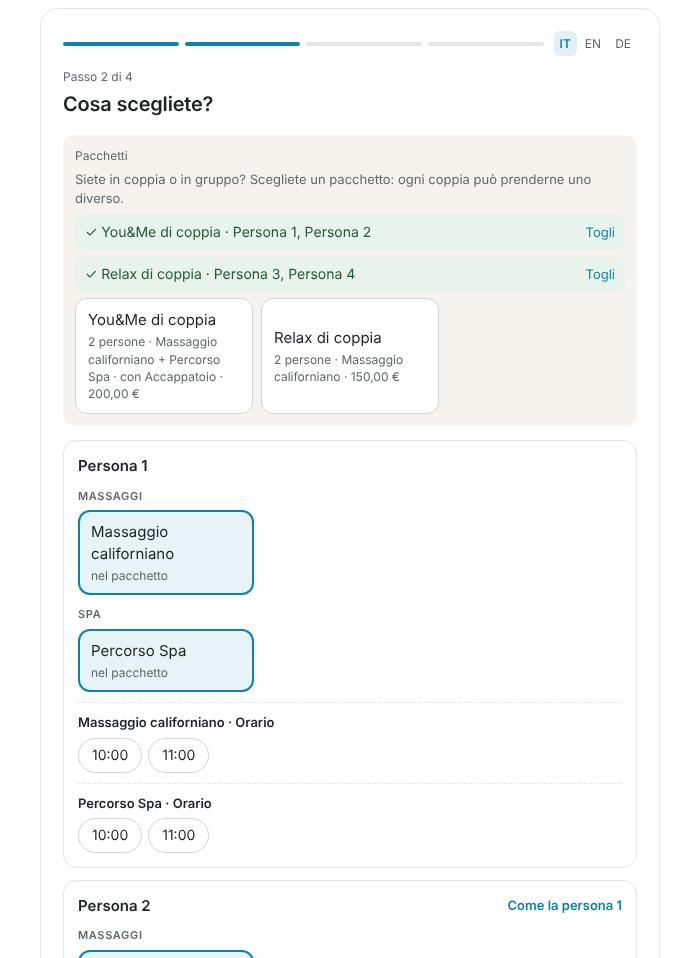
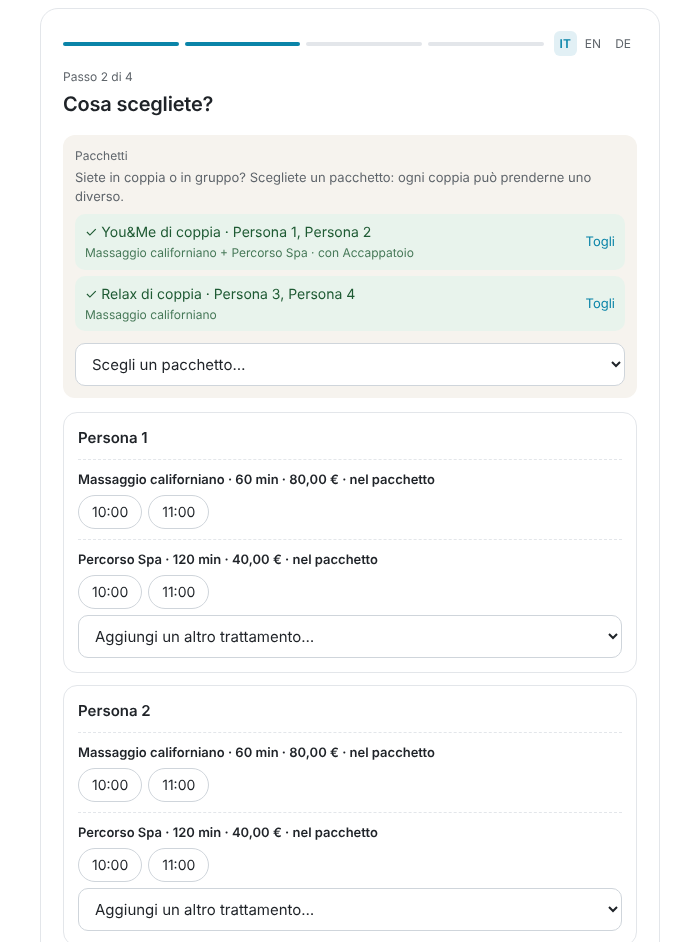
2.8.12: modulo web compatto (menu pacchetti e trattamenti), ordine di pacchetti e trattamenti su sito e banco (#54)
Claude-Session: https://claude.ai/code/session_01GttFfEWm9aErteTXHjR7ex

diff --git a/custom_components/spa_booking/frontend/spa-booking-form.js b/custom_components/spa_booking/frontend/spa-booking-form.js
@@ -45,6 +45,7 @@
       voucherOk: "Voucher valido fino al {d}: trattamenti già scelti.", voucherBad: "Voucher non valido o scaduto.",
       treatments: "Trattamenti", time: "Orario", noSlots: "Nessun orario libero in questa data.",
       loading: "Caricamento…", sameAs1: "Come la persona 1", fromVoucher: "dal voucher",
+      choosePkg: "Scegli un pacchetto…", addTreatment: "Scegli un trattamento…", addAnother: "Aggiungi un altro trattamento…",
       packages: "Pacchetti", packagesHint: "Siete in coppia o in gruppo? Scegliete un pacchetto: ogni coppia può prenderne uno diverso.",
       people2: "{n} persone", inPackage: "nel pacchetto", removePkg: "Togli", withExtras: "con {x}",
       first: "Nome", last: "Cognome", phone: "Telefono", phoneHint: "Ti confermiamo l'orario su WhatsApp.",
@@ -71,6 +72,7 @@
       pref: "For the massage you would prefer…", prefAny: "No preference", prefF: "A female therapist", prefM: "A male therapist",
       treatments: "Treatments", time: "Time", noSlots: "No free time on this date.",
       loading: "Loading…", sameAs1: "Same as guest 1", fromVoucher: "from the voucher",
+      choosePkg: "Choose a package…", addTreatment: "Choose a treatment…", addAnother: "Add another treatment…",
       packages: "Packages", packagesHint: "Coming as a couple or a group? Choose a package: each couple can take a different one.",
       people2: "{n} guests", inPackage: "in the package", removePkg: "Remove", withExtras: "with {x}",
       first: "First name", last: "Last name", phone: "Phone", phoneHint: "We confirm the time on WhatsApp.",
@@ -96,6 +98,7 @@
       pref: "Für die Massage bevorzugen Sie…", prefAny: "Egal", prefF: "Eine Masseurin", prefM: "Einen Masseur",
       treatments: "Behandlungen", time: "Uhrzeit", noSlots: "An diesem Tag ist keine Uhrzeit frei.",
       loading: "Wird geladen…", sameAs1: "Wie Person 1", fromVoucher: "aus dem Gutschein",
+      choosePkg: "Paket wählen…", addTreatment: "Behandlung wählen…", addAnother: "Weitere Behandlung hinzufügen…",
       packages: "Pakete", packagesHint: "Zu zweit oder in der Gruppe? Wählen Sie ein Paket: jedes Paar kann ein anderes nehmen.",
       people2: "{n} Personen", inPackage: "im Paket", removePkg: "Entfernen", withExtras: "mit {x}",
       first: "Vorname", last: "Nachname", phone: "Telefon", phoneHint: "Wir bestätigen die Uhrzeit per WhatsApp.",
@@ -321,25 +324,33 @@
     var list = config.packages || [];
     if (state.people < 2 || !list.length) return null;
     var box = h("div", { class: "pkgs" }, h("p", { class: "lbl" }, t("packages")), h("p", { class: "hint" }, t("packagesHint")));
+    box.lastChild.style.margin = "0 0 8px";
     var used = {};
     state.persons.forEach(function (p, i) {
       if (!p.pkg) return;
-      if (!used[p.pkg.group]) used[p.pkg.group] = { name: p.pkg.name, who: [] };
+      if (!used[p.pkg.group]) used[p.pkg.group] = { name: p.pkg.name, key: p.pkg.key, who: [] };
       used[p.pkg.group].who.push(i + 1);
     });
     Object.keys(used).forEach(function (group) {
+      var pkg = list.filter(function (p) { return p.key === used[group].key; })[0];
+      var inside = pkg ? pkg.treatment_ids.map(function (id) { var x = treatment(id); return x ? x.name : ""; }).join(" + ")
+        + (pkg.extras && pkg.extras.length ? " · " + t("withExtras", { x: pkg.extras.join(", ") }) : "") : "";
       box.appendChild(h("div", { class: "pkg-on" },
-        h("span", null, "✓ " + used[group].name + " · " + used[group].who.map(function (n) { return t("person", { n: n }); }).join(", ")),
+        h("span", null, "✓ " + used[group].name + " · " + used[group].who.map(function (n) { return t("person", { n: n }); }).join(", "),
+          inside ? h("small", null, inside) : null),
         h("button", { type: "button", class: "link", onclick: function () { removePackage(group); } }, t("removePkg"))));
     });
-    box.appendChild(h("div", { class: "cards" }, list.map(function (pkg) {
-      var names = pkg.treatment_ids.map(function (id) { var x = treatment(id); return x ? x.name : ""; }).join(" + ");
-      var extra = pkg.extras && pkg.extras.length ? " · " + t("withExtras", { x: pkg.extras.join(", ") }) : "";
-      return h("button", { type: "button", class: "card pkg", onclick: function () { addPackage(pkg); } },
-        pkg.name,
-        h("small", null, t("people2", { n: pkg.people }) + " · " + names + extra
-          + (config.showPrices && pkg.price ? " · " + money(pkg.price) : "")));
-    })));
+    // One menu, however many packages (2.8.12).
+    box.appendChild(h("select", {
+      class: "pick", "aria-label": t("packages"),
+      onchange: function (e) {
+        var pkg = list.filter(function (p) { return p.key === e.target.value; })[0];
+        if (pkg) addPackage(pkg);
+      },
+    }, [h("option", { value: "" }, t("choosePkg"))].concat(list.map(function (pkg) {
+      return h("option", { value: pkg.key }, pkg.name + " · " + t("people2", { n: pkg.people })
+        + (config.showPrices && pkg.price ? " · " + money(pkg.price) : ""));
+    }))));
     return box;
   }
 
@@ -483,6 +494,9 @@
     ".btn.pri{background:var(--a);border-color:var(--a);color:#fff}.btn[disabled]{opacity:.6;cursor:default}",
     ".hint{font-size:13px;color:#5f656b;margin:6px 0 0}.ok{color:#2e7d32}.bad{color:#c62828}",
     ".pkgs{margin:0 0 14px;padding:12px;border-radius:12px;background:#f6f3ee}.pkgs .lbl{margin-top:0}.card.pkg small{white-space:normal}",
+    ".pick{width:100%;box-sizing:border-box;margin:6px 0 0;padding:10px 12px;border:1px solid #cfd5db;border-radius:10px;background:#fff;font:inherit;color:inherit}",
+    ".tname{display:flex;justify-content:space-between;align-items:center;gap:8px}.tname .x{border:none;background:none;font:inherit;color:#8a9097;cursor:pointer;padding:2px 6px;border-radius:6px}.tname .x:hover{background:#eef0f2;color:#c62828}",
+    ".pkg-on small{display:block;font-size:12px;opacity:.8;margin-top:2px}",
     ".pkg-on{display:flex;justify-content:space-between;align-items:center;gap:8px;margin:6px 0;padding:8px 10px;border-radius:10px;background:#e8f3ec;color:#1e5a33;font-size:14px}",
     ".promo{margin:8px 0 4px;padding:10px 12px;border-radius:10px;background:#fff6e0;color:#6b4a00;font-size:14px}",
     ".person{border:1px solid #e3e6ea;border-radius:14px;padding:14px;margin-bottom:12px}",
@@ -617,29 +631,39 @@
             render();
           },
         }, t("sameAs1")) : null));
+      // 2.8.12: the treatments chosen, each with its times, and one menu
+      // (by category, in the spa's order) to add another.
+      var sub = function (item) {
+        return item.duration_min + " " + t("min") + (config.showPrices && item.price ? " · " + money(item.price) : "");
+      };
+      var menu = h("select", {
+        class: "pick", "aria-label": t("addTreatment"),
+        onchange: function (e) {
+          if (!e.target.value) return;
+          person.picks.push({ id: e.target.value, time: "" });
+          state.error = "";
+          render();
+        },
+      }, [h("option", { value: "" }, person.picks.length ? t("addAnother") : t("addTreatment"))]);
       order.forEach(function (cat) {
-        if (order.length > 1 && cat) card.appendChild(h("div", { class: "cat" }, cat));
-        card.appendChild(h("div", { class: "cards" }, groups[cat].map(function (item) {
-          var pick = person.picks.filter(function (p) { return p.id === item.id; })[0];
-          var locked = pick && (pick.voucher || pick.pkg);
-          var sub = item.duration_min + " " + t("min") + (config.showPrices && item.price ? " · " + money(item.price) : "");
-          return h("button", {
-            type: "button", class: "card" + (pick ? " on" : "") + (locked ? " lock" : ""),
-            "aria-pressed": pick ? "true" : "false",
-            onclick: function () {
-              if (locked) return;
-              if (pick) person.picks = person.picks.filter(function (p) { return p !== pick; });
-              else person.picks.push({ id: item.id, time: "" });
-              state.error = "";
-              render();
-            },
-          }, item.name, h("small", null, locked ? t(pick.pkg ? "inPackage" : "fromVoucher") : sub));
-        })));
+        var options = groups[cat].filter(function (item) {
+          return !person.picks.some(function (p) { return p.id === item.id; });
+        }).map(function (item) { return h("option", { value: item.id }, item.name + " · " + sub(item)); });
+        if (!options.length) return;
+        if (order.length > 1 && cat) menu.appendChild(h("optgroup", { label: cat }, options));
+        else options.forEach(function (o) { menu.appendChild(o); });
       });
       person.picks.forEach(function (pick) {
         var item = treatment(pick.id);
         var free = slots(pick.id);
-        var times = h("div", { class: "times" }, h("div", { class: "tname" }, (item ? item.name : "") + " · " + t("time")));
+        var locked = pick.voucher || pick.pkg;
+        var times = h("div", { class: "times" }, h("div", { class: "tname" },
+          h("span", null, (item ? item.name : "") + (item ? " · " + (pick.pkg ? item.duration_min + " " + t("min") : sub(item)) : "")
+            + (locked ? " · " + t(pick.pkg ? "inPackage" : "fromVoucher") : "")),
+          locked ? null : h("button", {
+            type: "button", class: "x", "aria-label": t("removePkg"),
+            onclick: function () { person.picks = person.picks.filter(function (p) { return p !== pick; }); render(); },
+          }, "✕")));
         if (free.loading) times.appendChild(h("p", { class: "hint" }, t("loading")));
         else if (!free.list.length) times.appendChild(h("p", { class: "hint bad" }, t("noSlots")));
         else times.appendChild(h("div", { class: "chips" }, free.list.map(function (slot) {
@@ -651,6 +675,7 @@
         })));
         card.appendChild(times);
       });
+      card.appendChild(menu);
       if (wantsPref(person)) card.appendChild(prefChips(person));
       box.appendChild(card);
     });

diff --git a/custom_components/spa_booking/frontend/spa-booking-card.js b/custom_components/spa_booking/frontend/spa-booking-card.js
@@ -18,7 +18,7 @@
  */
 
 const DOMAIN = "spa_booking";
-const CARD_VERSION = "2.8.11";
+const CARD_VERSION = "2.8.12";
 
 // Window of the "Uscite" panel at the top of the agenda: it opens this many
 // minutes before an appointment ends and lingers this many minutes after,
@@ -1667,7 +1667,10 @@ class SpaBookingCard extends HTMLElement {
   _shopPackages(minPeople = 1) {
     const settings = (this._data && this._data.settings) || {};
     const mapping = settings.wp_product_map || {};
-    return (settings.wp_products || []).map((product) => {
+    // In the order set in Configurazione › Pacchetti (2.8.12).
+    const order = settings.package_order || [];
+    const rank = (key) => { const i = order.indexOf(key); return i < 0 ? Number.MAX_SAFE_INTEGER : i; };
+    return [...(settings.wp_products || [])].sort((a, b) => rank(a.key) - rank(b.key)).map((product) => {
       const entry = mapping[product.key] || {};
       const ids = (entry.treatment_ids || []).filter(Boolean);
       if (!ids.length || !ids.every((id) => { const t = this._lookup.treatment.get(id); return t && t.active !== false; })) return null;
@@ -5838,9 +5841,9 @@ class SpaBookingCard extends HTMLElement {
         on: { change: (event) => { row.treatment_id = event.target.value; this._render(); } },
       });
       treatmentSelect.appendChild(el("option", { value: "" }, "— Scegli il trattamento —"));
-      const categories = [...this._data.categories].sort((a, b) => a.name.localeCompare(b.name));
+      const categories = this._categoriesInTreatmentOrder();
       const grouped = new Map();
-      treatments.forEach((t) => {
+      [...treatments].sort((a, b) => this._trtRank(a) - this._trtRank(b) || a.name.localeCompare(b.name)).forEach((t) => {
         if (t.category_id && this._lookup.category.has(t.category_id)) {
           if (!grouped.has(t.category_id)) grouped.set(t.category_id, []);
           grouped.get(t.category_id).push(t);
@@ -15928,7 +15931,7 @@ class SpaBookingCard extends HTMLElement {
     const wrap = el("div", { class: "stack" });
     const settings = (this._data && this._data.settings) || {};
     wrap.appendChild(this._sectionHead("mdi:package-variant-closed", "Pacchetti",
-      "I prodotti dello shop abbinati ai trattamenti. Quelli per 2 o più persone si scelgono in Nuovo appuntamento, Nuova richiesta, Modifica gruppo e nel modulo del sito: qui decidi dove si vedono."));
+      "I prodotti dello shop abbinati ai trattamenti. Quelli per 2 o più persone si scelgono in Nuovo appuntamento, Nuova richiesta, Modifica gruppo e nel modulo del sito: qui decidi dove si vedono e, con le frecce, in che ordine."));
     const all = this._shopPackages(1);
     const productsCount = (settings.wp_products || []).length;
     if (!all.length) {
@@ -15949,10 +15952,23 @@ class SpaBookingCard extends HTMLElement {
         on: { change: (event) => toggle(pkg.key, list, !event.target.checked) } }),
       el("span", {}, label));
     const list = el("div", { class: "stack tight" });
-    all.sort((a, b) => b.people - a.people || a.name.localeCompare(b.name, "it")).forEach((pkg) => {
+    // Up and down arrows set the order shown on the website and in the
+    // menu of Nuovo appuntamento / Nuova richiesta (2.8.12).
+    const move = async (index, step) => {
+      const keys = all.map((p) => p.key);
+      const target = index + step;
+      if (target < 0 || target >= keys.length) return;
+      [keys[index], keys[target]] = [keys[target], keys[index]];
+      try { await this._call("update_settings", { package_order: keys }); } catch (error) { /* shown */ }
+    };
+    all.forEach((pkg, index) => {
       const multi = pkg.people >= 2;
       const extras = pkg.extras.map((id) => (this._accessory(id) || {}).label || id);
       list.appendChild(el("div", { class: `pkc-row${pkg.hidden_web && pkg.hidden_desk ? " off" : ""}` },
+        el("div", { class: "pkc-move" },
+          el("button", { class: "icon-btn", title: "Sposta su", disabled: this._busy || index === 0, on: { click: () => move(index, -1) } }, el("ha-icon", { icon: "mdi:chevron-up" })),
+          el("span", { class: "pkc-pos" }, String(index + 1)),
+          el("button", { class: "icon-btn", title: "Sposta giù", disabled: this._busy || index === all.length - 1, on: { click: () => move(index, 1) } }, el("ha-icon", { icon: "mdi:chevron-down" }))),
         pkg.image ? el("img", { class: "pkc-img", src: pkg.image, alt: "" }) : el("span", { class: "pkc-img ph" }, el("ha-icon", { icon: "mdi:package-variant-closed" })),
         el("div", { class: "pkc-main" },
           el("div", {}, el("b", {}, pkg.name), el("span", { class: "dim small" }, ` · ${pkg.people === 1 ? "1 persona" : `${pkg.people} persone`}${pkg.price != null ? ` · ${euro(pkg.price)}` : ""}`)),
@@ -19567,9 +19583,9 @@ class SpaBookingCard extends HTMLElement {
       on: { change: (event) => { draft.treatment_id = event.target.value; this._render(); } },
     });
     treatmentSelect.appendChild(el("option", { value: "" }, "— Scegli il trattamento —"));
-    const categories = [...this._data.categories].sort((a, b) => a.name.localeCompare(b.name));
+    const categories = this._categoriesInTreatmentOrder();
     const grouped = new Map();
-    treatments.forEach((treatment) => {
+    [...treatments].sort((a, b) => this._trtRank(a) - this._trtRank(b) || a.name.localeCompare(b.name)).forEach((treatment) => {
       if (treatment.category_id && this._lookup.category.has(treatment.category_id)) {
         if (!grouped.has(treatment.category_id)) grouped.set(treatment.category_id, []);
         grouped.get(treatment.category_id).push(treatment);
@@ -22298,7 +22314,10 @@ class SpaBookingCard extends HTMLElement {
       .pk-head { display: flex; align-items: center; gap: 6px; flex-wrap: wrap; }
       .lv-head { align-items: center; }
       .lv-head h3 { margin: 0; }
-      .pkc-row { display: grid; grid-template-columns: 56px minmax(0, 1fr) auto; gap: 12px; align-items: center; padding: 10px 12px; border: 1px solid var(--sb-line); border-radius: 12px; background: var(--card-background-color); }
+      .pkc-move { display: flex; flex-direction: column; align-items: center; gap: 0; }
+      .pkc-move .icon-btn { width: 28px; height: 24px; }
+      .pkc-pos { font-size: 12px; font-weight: 700; color: var(--secondary-text-color); }
+      .pkc-row { display: grid; grid-template-columns: 32px 56px minmax(0, 1fr) auto; gap: 12px; align-items: center; padding: 10px 12px; border: 1px solid var(--sb-line); border-radius: 12px; background: var(--card-background-color); }
       .pkc-row.off { opacity: .6; }
       .pkc-img { width: 56px; height: 56px; border-radius: 10px; object-fit: cover; background: var(--sb-card); display: flex; align-items: center; justify-content: center; }
       .pkc-img.ph ha-icon { --mdc-icon-size: 26px; color: var(--secondary-text-color); }
@@ -22306,7 +22325,7 @@ class SpaBookingCard extends HTMLElement {
       .pkc-switches { display: flex; flex-direction: column; gap: 6px; }
       .pkc-switch { display: flex; align-items: center; gap: 8px; font-size: 13px; cursor: pointer; white-space: nowrap; }
       .pkc-switch input { width: 18px; height: 18px; accent-color: var(--primary-color); }
-      @media (max-width: 640px) { .pkc-row { grid-template-columns: 48px minmax(0, 1fr); } .pkc-switches { grid-column: 1 / -1; flex-direction: row; flex-wrap: wrap; gap: 14px; } }
+      @media (max-width: 640px) { .pkc-row { grid-template-columns: 32px 48px minmax(0, 1fr); } .pkc-switches { grid-column: 1 / -1; flex-direction: row; flex-wrap: wrap; gap: 14px; } }
       .pk-line { display: flex; align-items: center; gap: 8px; flex-wrap: wrap; }
       .pk-line ha-icon { --mdc-icon-size: 20px; color: var(--primary-color); }
       .pk-select { flex: 1; min-width: 220px; max-width: 460px; }

diff --git a/custom_components/spa_booking/coordinator.py b/custom_components/spa_booking/coordinator.py
@@ -3372,6 +3372,14 @@ class SpaBookingCoordinator(DataUpdateCoordinator[dict[str, Any]]):
         return {"earned": earned, "adjust": adjust, "spent": spent, "balance": earned + adjust - spent,
                 "booked": round(booked, 2), "bookings": bookings}
 
+    def treatment_rank(self) -> tuple[dict[str, int], dict[str, int]]:
+        """Positions of categories and treatments as set in Configurazione › Trattamenti (2.8.12)."""
+        settings = self._data.get(KEY_SETTINGS, {})
+        columns = settings.get("categories_order") or {}
+        cats = [*(columns.get("left") or []), *(columns.get("right") or [])]
+        return ({c: i for i, c in enumerate(cats)},
+                {t: i for i, t in enumerate(settings.get("treatments_order") or [])})
+
     def shop_packages(self, min_people: int = 1) -> list[dict[str, Any]]:
         """The shop products paired with treatments, as bookable packages (2.8.9).
 
@@ -3384,7 +3392,11 @@ class SpaBookingCoordinator(DataUpdateCoordinator[dict[str, Any]]):
         out = []
         hidden_web = set(settings.get("package_hidden_web") or [])
         hidden_desk = set(settings.get("package_hidden_desk") or [])
-        for product in settings.get("wp_products") or []:
+        # In the order set in Configurazione › Pacchetti (2.8.12).
+        order = list(settings.get("package_order") or [])
+        rank = {key: index for index, key in enumerate(order)}
+        products = sorted(settings.get("wp_products") or [], key=lambda p: rank.get(p.get("key"), len(order)))
+        for product in products:
             entry = mapping.get(product.get("key")) or {}
             treatments = [t for t in entry.get("treatment_ids") or [] if t in known]
             if not treatments or len(treatments) != len(entry.get("treatment_ids") or []):

diff --git a/custom_components/spa_booking/public.py b/custom_components/spa_booking/public.py
@@ -242,7 +242,13 @@ class SpaBookingPublicTreatmentsView(_PublicView):
                 if show_prices and payload.get("price") is not None:
                     item["price"] = payload["price"]
                 items.append(item)
-            items.sort(key=lambda item: (item["category_name"], item["name"]))
+            # The spa's own order (Configurazione › Trattamenti), 2.8.12.
+            cat_rank, trt_rank = coordinator.treatment_rank()
+            category_of = {t["id"]: t.get("category_id") or "" for t in coordinator.treatments}
+            items.sort(key=lambda item: (
+                cat_rank.get(category_of.get(item["id"], ""), len(cat_rank)), item["category_name"],
+                trt_rank.get(item["id"], len(trt_rank)), item["name"],
+            ))
             # The shop packages for two or more people (2.8.9) whose
             # treatments are all on the site: the guest picks one per couple.
             visible = {item["id"] for item in items}

diff --git a/tests/test_manual_loyalty.py b/tests/test_manual_loyalty.py
@@ -41,3 +41,13 @@ def test_hidden_packages(coordinator) -> None:
     packages = {p["key"]: p for p in coordinator.shop_packages()}
     assert packages["1:0"]["hidden_web"] and not packages["1:0"]["hidden_desk"]
     assert packages["2:0"]["hidden_desk"] and not packages["2:0"]["hidden_web"]
+
+
+def test_package_order(coordinator) -> None:
+    settings = coordinator._data["settings"]
+    tid = coordinator.treatments[0]["id"]
+    settings.update(_norm_settings({**settings,
+        "wp_products": [{"product_id": i, "variation_id": 0, "name": n, "price": 100} for i, n in ((1, "A"), (2, "B"), (3, "C"))],
+        "wp_product_map": {f"{i}:0": {"people": 2, "treatment_ids": [tid]} for i in (1, 2, 3)},
+        "package_order": ["3:0", "1:0"]}))
+    assert [p["key"] for p in coordinator.shop_packages()] == ["3:0", "1:0", "2:0"]

diff --git a/custom_components/spa_booking/normalize.py b/custom_components/spa_booking/normalize.py
@@ -1097,6 +1097,7 @@ def _norm_settings(raw: dict[str, Any]) -> dict[str, Any]:
         # form, and off the menu of Nuovo appuntamento / Nuova richiesta.
         "package_hidden_web": sorted({str(k) for k in raw.get("package_hidden_web") or [] if k}),
         "package_hidden_desk": sorted({str(k) for k in raw.get("package_hidden_desk") or [] if k}),
+        "package_order": [str(k) for k in dict.fromkeys(raw.get("package_order") or []) if k][:500],
         # Programma partner (2.8.6): the discount of the guests who book with a
         # partner's link, and the prize the partner's points turn into.
         "partner_discount_pct": _norm_pct(raw.get("partner_discount_pct")),

diff --git a/custom_components/spa_booking/services.py b/custom_components/spa_booking/services.py
@@ -947,6 +947,7 @@ UPDATE_SETTINGS_SCHEMA = vol.Schema(
         vol.Optional("partner_booking_url"): vol.Any(cv.string, None),
         vol.Optional("package_hidden_web"): vol.Any([cv.string], None),
         vol.Optional("package_hidden_desk"): vol.Any([cv.string], None),
+        vol.Optional("package_order"): vol.Any([cv.string], None),
         vol.Optional("partner_discount_pct"): vol.Any(vol.Coerce(float), None),
         vol.Optional("partner_reward_points"): vol.Any(vol.Coerce(int), None),
         vol.Optional("partner_reward_value"): vol.Any(vol.Coerce(int), None),

diff --git a/docs/GUIDA.md b/docs/GUIDA.md
@@ -1,6 +1,6 @@
 # Spa Booking — guida alle schede (2.2)
 
-Aggiornata alla 2.8.11: [pacchetti e voucher fedeltà a mano](#scheda-pacchetti-e-voucher-fedelt%C3%A0-a-mano-2811); [pacchetti nelle prenotazioni](#pacchetti-dello-shop-nelle-prenotazioni-289); [gruppi e codice](#prenotazioni-di-gruppo-e-codice-288); [annullamento](#annullamento-287); [programma partner](#programma-partner-286); [pacchetto nelle promo](#pacchetto-dello-shop-nelle-promo-285); [tutti i messaggi WhatsApp](#tutti-i-messaggi-whatsapp-284); [conferma richiesta](#conferma-di-una-richiesta-283); [conto e voucher come pagamento](#conto-e-voucher-come-pagamento-281); [backup su Google Drive](#backup-su-google-drive-280); [Shop online](#shop-online-270); [importa partner e disiscrizione](#importa-partner-e-disiscrizione-260); [vista Mese](#vista-mese-255); [Dati fatturazione e Modifica appuntamento](#dati-fatturazione-e-modifica-appuntamento-252); [IVA](#iva-251); [campagne e punti partner](#campagne-e-punti-partner-250); [Email e Accedi con Google](#email-241); [dettaglio, punti e partner](#dettaglio-punti-fedelta-e-partner-240); [Agenda](#agenda-2312); [Nuovo appuntamento a passi](#nuovo-appuntamento-a-passi-2310); [promo salvate e modelli](#promo-salvate-e-modelli-239); [Promo e Impostazioni](#promo-e-impostazioni-238); [Notifiche](#notifiche-236); [messaggi e chat](#messaggi-e-chat-235); [preferenza massaggiatrice/massaggiatore](#preferenza-massaggiatrice-o-massaggiatore); [promo e fedeltà del cliente](#promo-e-fedeltà-del-cliente); [conferme e promemoria WhatsApp](#conferme-e-promemoria-whatsapp); [firme e storico](#firme-e-storico); [chiusure con giorni esclusi](#chiusure-con-giorni-esclusi); [Proponi data](#proponi-data) nelle richieste, con trattamenti alternativi e prezzo; [aggiornamenti dalla card](#aggiornamenti), nuove schede di richieste, cliente e configurazione; [modulo del sito](#modulo-del-sito) a passi e in tre lingue, [avviso delle regole di categoria](#avviso-regole-della-categoria).
+Aggiornata alla 2.8.12: ordine di trattamenti e pacchetti, modulo del sito compatto; [pacchetti e voucher fedeltà a mano](#scheda-pacchetti-e-voucher-fedelt%C3%A0-a-mano-2811); [pacchetti nelle prenotazioni](#pacchetti-dello-shop-nelle-prenotazioni-289); [gruppi e codice](#prenotazioni-di-gruppo-e-codice-288); [annullamento](#annullamento-287); [programma partner](#programma-partner-286); [pacchetto nelle promo](#pacchetto-dello-shop-nelle-promo-285); [tutti i messaggi WhatsApp](#tutti-i-messaggi-whatsapp-284); [conferma richiesta](#conferma-di-una-richiesta-283); [conto e voucher come pagamento](#conto-e-voucher-come-pagamento-281); [backup su Google Drive](#backup-su-google-drive-280); [Shop online](#shop-online-270); [importa partner e disiscrizione](#importa-partner-e-disiscrizione-260); [vista Mese](#vista-mese-255); [Dati fatturazione e Modifica appuntamento](#dati-fatturazione-e-modifica-appuntamento-252); [IVA](#iva-251); [campagne e punti partner](#campagne-e-punti-partner-250); [Email e Accedi con Google](#email-241); [dettaglio, punti e partner](#dettaglio-punti-fedelta-e-partner-240); [Agenda](#agenda-2312); [Nuovo appuntamento a passi](#nuovo-appuntamento-a-passi-2310); [promo salvate e modelli](#promo-salvate-e-modelli-239); [Promo e Impostazioni](#promo-e-impostazioni-238); [Notifiche](#notifiche-236); [messaggi e chat](#messaggi-e-chat-235); [preferenza massaggiatrice/massaggiatore](#preferenza-massaggiatrice-o-massaggiatore); [promo e fedeltà del cliente](#promo-e-fedeltà-del-cliente); [conferme e promemoria WhatsApp](#conferme-e-promemoria-whatsapp); [firme e storico](#firme-e-storico); [chiusure con giorni esclusi](#chiusure-con-giorni-esclusi); [Proponi data](#proponi-data) nelle richieste, con trattamenti alternativi e prezzo; [aggiornamenti dalla card](#aggiornamenti), nuove schede di richieste, cliente e configurazione; [modulo del sito](#modulo-del-sito) a passi e in tre lingue, [avviso delle regole di categoria](#avviso-regole-della-categoria).
 
 Questa guida mostra ogni scheda della dashboard **Spa Booking** e spiega a
 cosa serve ogni funzione. Le immagini sono state fatte con dati di prova.
@@ -39,6 +39,10 @@ in Impostazioni › Aspetto).
 shop abbinati ai trattamenti: persone, trattamenti di ogni persona, accessori
 e prezzo. Per quelli da 2 o più persone due spunte decidono dove si vedono:
 **Modulo web** e **Nuovo appuntamento e richiesta** (anche Modifica gruppo).
+Con le **frecce** a sinistra decidi l'**ordine** dei pacchetti, uguale sul
+sito e nel menu di Nuovo appuntamento e richiesta. L'ordine dei
+**trattamenti** si cambia in Configurazione › Trattamenti con la matita
+(trascina categorie e trattamenti): vale per il sito e per tutti i menu.
 Gli abbinamenti si cambiano sempre in Shop online.
 
 ![Pacchetti](anteprime/74-config-pacchetti.png)

diff --git a/README.md b/README.md
@@ -133,6 +133,15 @@ apri una pull request: `main` resta sempre installabile.
 
 ## Changelog
 
+- **v2.8.12** — **Modulo del sito più compatto e ordine personalizzato**
+  (serve il riavvio di Home Assistant). Nel modulo del sito pacchetti e
+  trattamenti non sono più box: un menu «Scegli un pacchetto…» e, per ogni
+  persona, i trattamenti scelti con i loro orari e un menu «Aggiungi un
+  trattamento…» diviso per categoria. L'**ordine dei trattamenti** è quello
+  di Configurazione › Trattamenti (matita: trascina categorie e trattamenti),
+  ora usato anche dal sito e da tutti i menu; l'**ordine dei pacchetti** si
+  decide con le frecce in Configurazione › Pacchetti e vale per il sito e per
+  Nuovo appuntamento e richiesta.
 - **v2.8.11** — **Voucher fedeltà a mano e scheda Pacchetti** (serve il
   riavvio di Home Assistant). Nella scheda di ogni cliente e di ogni partner,
   «Invia voucher fedeltà» crea e invia subito un voucher fedeltà (sconto,
